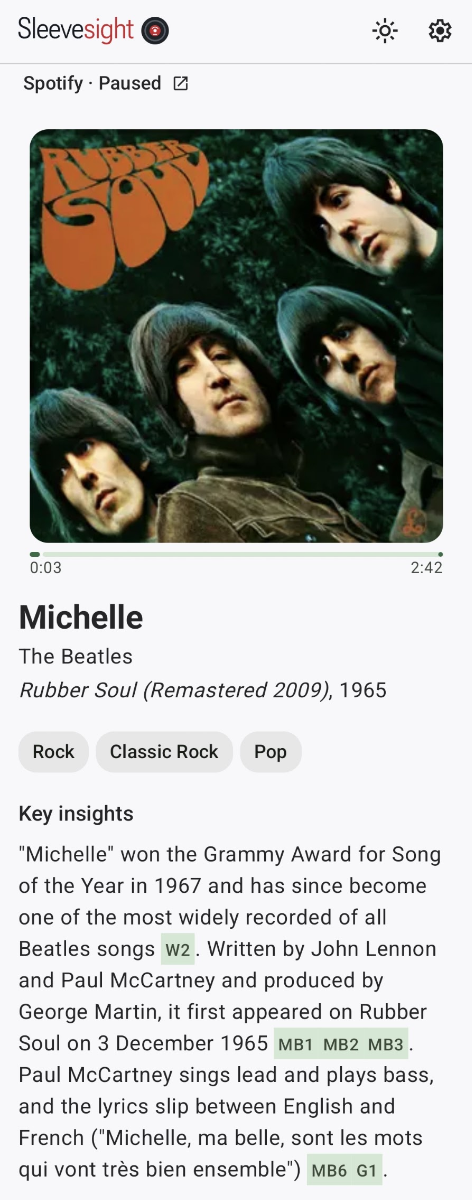
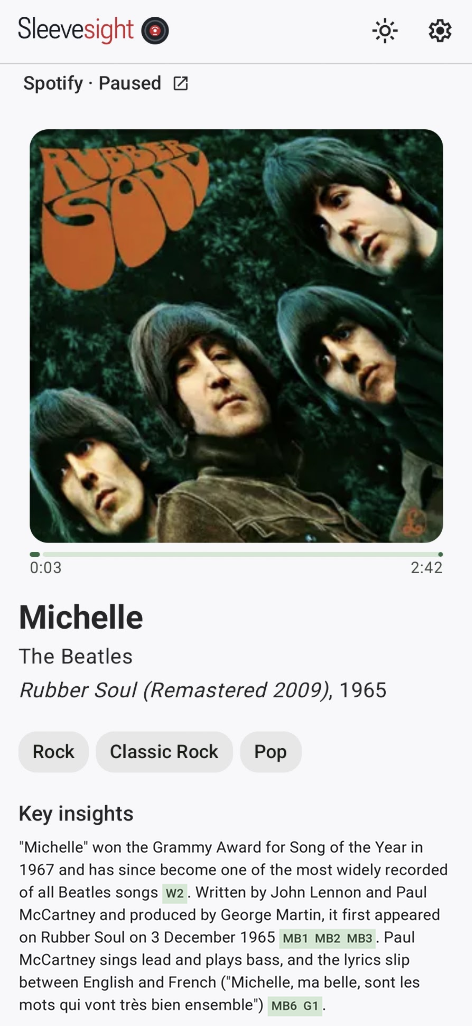
Reduce insight font size in hero screenshot for realistic phone proportions (#706)

diff --git a/index.html b/index.html
@@ -206,7 +206,7 @@ section h2{margin:0 0 20px;font-size:clamp(26px,4vw,34px);line-height:1.15;font-
        cropped out. -->
   <figure class="mock">
     <div class="phone">
-      <img src="assets/home-screen.png" width="472" height="1200" alt="Sleevesight showing Michelle by The Beatles from Rubber Soul (Remastered 2009), 1965, with genre labels Rock, Classic Rock and Pop, and a three-sentence key insight cited to Wikipedia, MusicBrainz and web search.">
+      <img src="assets/home-screen.png" width="472" height="1026" alt="Sleevesight showing Michelle by The Beatles from Rubber Soul (Remastered 2009), 1965, with genre labels Rock, Classic Rock and Pop, and a three-sentence key insight cited to Wikipedia, MusicBrainz and web search.">
     </div>
   </figure>
 </div>
